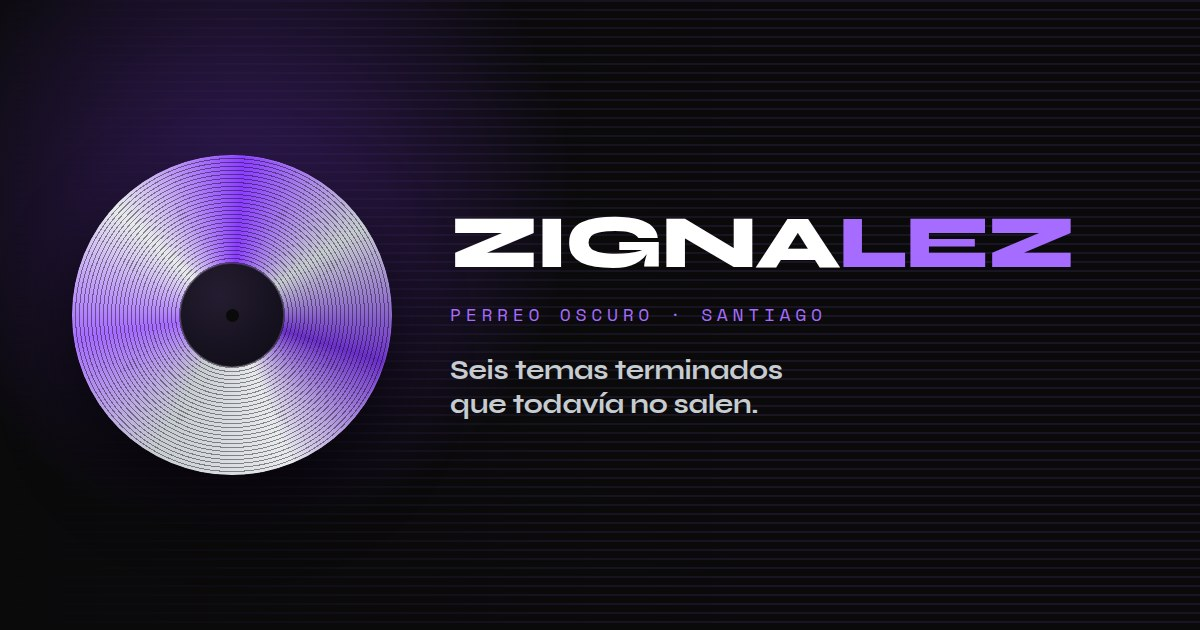
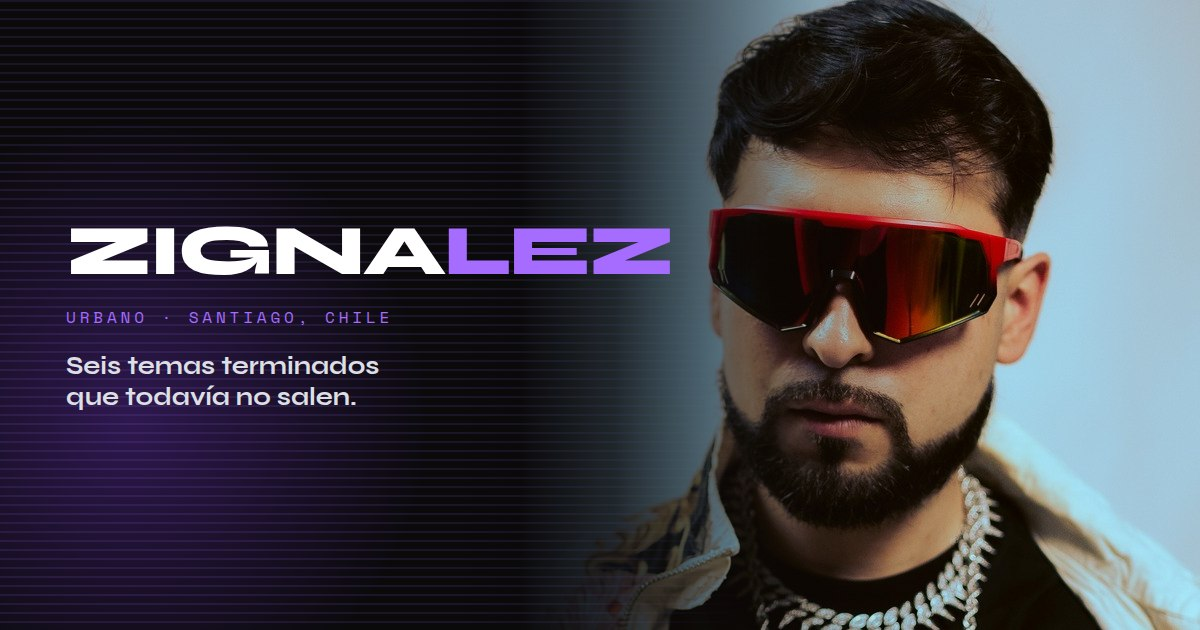
feat(marca): la cara del artista en la tarjeta de compartir
La pieza anterior era un disco dibujado en CSS: un buen parche mientras no
habia foto. Ahora hay sesion propia y la tarjeta lleva al artista.

CAMBIO DE POSTURA, con su motivo
Hace dos dias se decidio posicionar el frente como "perreo oscuro
nocturno", a partir de como el propio artista describe sus seis temas
ineditos. La sesion de fotos que llego hoy -- once tomas, misma direccion
de arte -- es luminosa: fondo celeste, chaqueta de parches, luz de dia.
El visitante ve la foto ANTES de escuchar un segundo de musica, asi que
una etiqueta que la contradiga le pide que no crea lo que esta viendo.
La etiqueta pasa a "urbano", que es cierto para el sonido y para la
imagen. "Freestyle" sigue fuera del frente, que era el punto original.
El genero real (reggaeton, perreo) se mantiene en el JSON-LD, donde es
metadato y no promesa visual.
Si la medicion de XTUBIEN (ver PROMPT_MAESTRO_SITIO_ALCANCE.md, D4b)
contradice esto, se revierte cambiando una linea.

QUE ENTRA
- og-zignalez.jpg: foto frontal sobre el negro de marca, con el degradado
  y las franjas de interferencia del sistema "senal". 1200x630, 111 KB.
- title, og:title y twitter:title alineados con la etiqueta.
- La imagen se referencia con ?v=2: conserva el nombre en disco, pero las
  plataformas y el navegador cachean por URL y sin eso seguirian sirviendo
  la version del disco dibujado.
- comprobar-meta.sh aprende a ignorar la cadena de consulta al buscar el
[…]

diff --git a/index.html b/index.html
@@ -3,7 +3,7 @@
 <head>
 <meta charset="UTF-8">
 <meta name="viewport" content="width=device-width, initial-scale=1.0">
-<title>Zignalez — perreo oscuro desde Santiago de Chile</title>
+<title>Zignalez — música urbana desde Santiago de Chile</title>
 <meta name="description" content="Seis temas terminados que todavía no salen. Suenan acá con la letra corriendo, línea por línea. Perreo oscuro desde Santiago de Chile.">
 <link rel="canonical" href="https://zignalez.cl/">
 
@@ -22,18 +22,18 @@
 <meta property="og:site_name" content="Zignalez">
 <meta property="og:locale" content="es_CL">
 <meta property="og:url" content="https://zignalez.cl/">
-<meta property="og:title" content="Zignalez — perreo oscuro desde Santiago">
+<meta property="og:title" content="Zignalez — urbano desde Santiago de Chile">
 <meta property="og:description" content="Seis temas terminados que todavía no salen. Suenan acá con la letra corriendo, línea por línea.">
-<meta property="og:image" content="https://zignalez.cl/og-zignalez.jpg">
+<meta property="og:image" content="https://zignalez.cl/og-zignalez.jpg?v=2">
 <meta property="og:image:type" content="image/jpeg">
 <meta property="og:image:width" content="1200">
 <meta property="og:image:height" content="630">
-<meta property="og:image:alt" content="Zignalez, artista urbano de Santiago de Chile">
+<meta property="og:image:alt" content="Zignalez, artista urbano de Santiago de Chile, de frente con lentes rojos">
 
 <meta name="twitter:card" content="summary_large_image">
-<meta name="twitter:title" content="Zignalez — perreo oscuro desde Santiago">
+<meta name="twitter:title" content="Zignalez — urbano desde Santiago de Chile">
 <meta name="twitter:description" content="Seis temas terminados que todavía no salen.">
-<meta name="twitter:image" content="https://zignalez.cl/og-zignalez.jpg">
+<meta name="twitter:image" content="https://zignalez.cl/og-zignalez.jpg?v=2">
 
 <!-- MusicGroup NO produce resultados enriquecidos en Google: eso es folclore
      SEO. Lo que hace es desambiguar la entidad (Zignalez = artista musical
@@ -46,7 +46,7 @@
   "name": "Zignalez",
   "alternateName": "El Zigg Ziggy",
   "url": "https://zignalez.cl/",
-  "image": "https://zignalez.cl/og-zignalez.jpg",
+  "image": "https://zignalez.cl/og-zignalez.jpg?v=2",
   "genre": ["Reggaeton", "Perreo", "Música urbana", "Freestyle"],
   "foundingLocation": {
     "@type": "Place",
